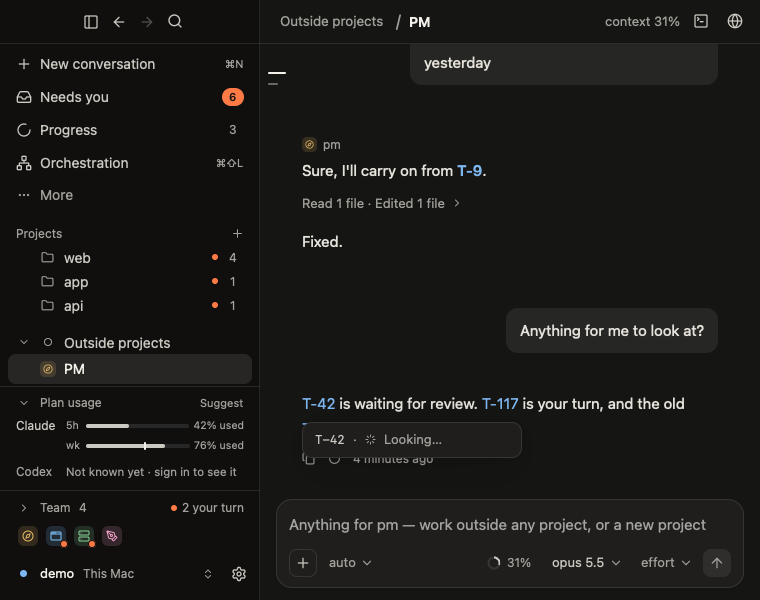
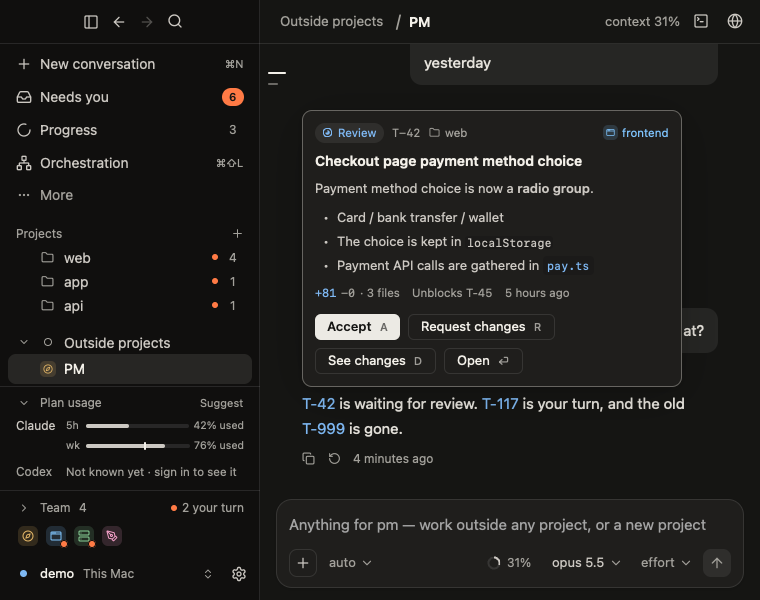
Ticket card: keeps its gap over the link at large text, a mark on Not found, fits its content, visible rim

diff --git a/crates/desktop/src/views/ticket_card.rs b/crates/desktop/src/views/ticket_card.rs
@@ -759,25 +759,30 @@ impl Render for TicketCard {
         super::visuals::flush(&held, &self.shell, cx);
         // Placed by its size as last drawn; drawn again when that changes.
         let viewport = window.viewport_size();
-        let size = self.drawn.get().map_or(if found { GUESS } else { (200., 36.) }, |r| (r.w, r.h));
-        let (x, y, side) = place(target.anchor, size, (f32::from(viewport.width), f32::from(viewport.height)), target.prefer);
+        let mut size = self.drawn.get().map_or(if found { GUESS } else { (200., 36.) }, |r| (r.w, r.h));
+        let window_size = (f32::from(viewport.width), f32::from(viewport.height));
+        let (_, _, side) = place(target.anchor, size, window_size, target.prefer);
+        // No taller than the room on its side of the link, its gap kept: a short window scrolls the card's middle.
+        let room = room_on(target.anchor, window_size.1, side);
+        size.1 = size.1.min(room);
+        let (x, y, side) = place(target.anchor, size, window_size, target.prefer);
         let drawn = self.drawn.clone();
         let card = div()
             .id(("ticket-card", target.id as u64))
             .relative()
             .occlude()
-            .w(px(if found { WIDTH } else { 220. }))
+            .when(found, |c| c.w(px(WIDTH))).when(!found, |c| c.min_w(px(MISSING_MIN)))
             .rounded(px(10.))
             .bg(p.raised)
             .border_1()
-            .border_color(p.hair)
+            .border_color(rim(p))
             .shadow(crate::motion::float_shadow(1.))
             .text_color(p.text)
             .cursor_default()
             // No taller than the window: its middle scrolls instead.
             .flex()
             .flex_col()
-            .max_h(px(tallest(f32::from(viewport.height))))
+            .max_h(px(tallest(window_size.1).min(room).max(MIN_ROOM)))
             .child(body)
             // A wheel on the card is the card's, at its ends too: what is
             // under it (the conversation) never scrolls from here.
@@ -794,6 +799,25 @@ impl Render for TicketCard {
     }
 }
 
+/// The room between the window's margin and the link, on `side` of it.
+fn room_on(anchor: Rect, window_h: f32, side: Side) -> f32 {
+    match side {
+        Side::Above => anchor.y - GAP - MARGIN,
+        _ => window_h - MARGIN - (anchor.bottom() + GAP),
+    }
+}
+
+/// Least height a card keeps when there is little room: its header and a line.
+const MIN_ROOM: f32 = 80.;
+
+/// The card's edge: a line that shows on the page in either appearance (the hairline is for rules inside it).
+fn rim(p: Palette) -> Rgba {
+    Rgba { a: 0.55, ..p.muted }
+}
+
+/// How narrow the "Not found" / "Looking…" card goes.
+const MISSING_MIN: f32 = 150.;
+
 /// How long the daemon has to answer before a number reads "Not found" (an older one may not).
 const LOOK_FOR: Duration = Duration::from_secs(4);
 
@@ -807,7 +831,8 @@ fn missing(p: Palette, id: TicketId, gone: bool) -> AnyElement {
         .text_size(px(SMALL))
         .child(div().font_family(MONO).text_size(px(12.)).text_color(p.text2).child(format!("T-{id}")))
         .child(div().text_color(p.muted).child("·"))
-        .when(!gone, |row| row.child(crate::motion::spinner(11., p.muted)))
+        // Looking turns; gone is a still mark: the two read apart without the words.
+        .child(if gone { crate::icons::icon(crate::icons::Icon::XCircle, 12., p.muted).into_any_element() } else { crate::motion::spinner(11., p.muted) })
         .child(div().text_color(p.muted).child(if gone { t!("card.not_found") } else { t!("card.loading") }))
         .into_any_element()
 }

diff --git a/design/flows/shoot-desktop.py b/design/flows/shoot-desktop.py
@@ -84,6 +84,10 @@ state("conversation/chat/ticket-card-missing", "chat;wait:800", {"FAKE_CARDS": "
 state("conversation/chat/ticket-card-missing-long", "chat;wait:800", {"FAKE_CARDS": "1", "FAKE_ASKS": "0"}, lang="de", at={1200: "hover:806,432;wait:1500", 760: "hover:323,429;wait:1500"}, label="A ticket card for a number not on the board, in German")
 state("conversation/chat/ticket-card-recovered", "chat;wait:800", {"FAKE_CARDS": "1", "FAKE_ASKS": "0", "FAKE_STALE": "42"}, at={1200: "hover:421,432;wait:1500", 760: "hover:318,404;wait:1500"}, label="A ticket card for a ticket the list missed: looked up, shown")
 state("conversation/chat/ticket-card-large", "chat;wait:800;zoom:in;zoom:in;wait:600;hover:398,535;wait:1500", {"FAKE_CARDS": "1", "FAKE_ASKS": "0", "FAKE_STALE": "42"}, sizes=[(1200, 760)], label="Large text")
+# At 150% the narrowest window has little room: the card keeps its gap and scrolls instead. One state each, as the lookup runs out in seconds.
+Z = "chat;wait:800;zoom:150;wait:600"
+state("conversation/chat/ticket-card-zoomed", Z, {"FAKE_CARDS": "1", "FAKE_ASKS": "0", "FAKE_STALE": "42"}, sizes=[(760, 600)], at={760: "hover:475,234;wait:1500"}, label="Zoomed to 150%, narrowest width: the card keeps its gap over the link")
+state("conversation/chat/ticket-card-zoomed-missing", Z, {"FAKE_CARDS": "1", "FAKE_ASKS": "0"}, sizes=[(760, 600)], at={760: "hover:485,346;wait:1500"}, label="Zoomed to 150%: Not found, with its mark")
 # One width each: the lookup runs out in a few seconds, and a resize takes longer than that.
 state("conversation/chat/ticket-card-looking", "chat;wait:800;hover:421,432;wait:700", {"FAKE_CARDS": "1", "FAKE_ASKS": "0", "FAKE_STALE": "42", "FAKE_NO_LOOKUP": "1"}, sizes=[(1200, 760)], wait=0, label="A ticket card the list missed, while the daemon is still asked")
 state("conversation/chat/ticket-card-looking-narrow", "chat;wait:800", {"FAKE_CARDS": "1", "FAKE_ASKS": "0", "FAKE_STALE": "42", "FAKE_NO_LOOKUP": "1"}, sizes=[(760, 600)], at={760: "hover:318,404;wait:700"}, wait=0, label="The same, at the narrowest width")
